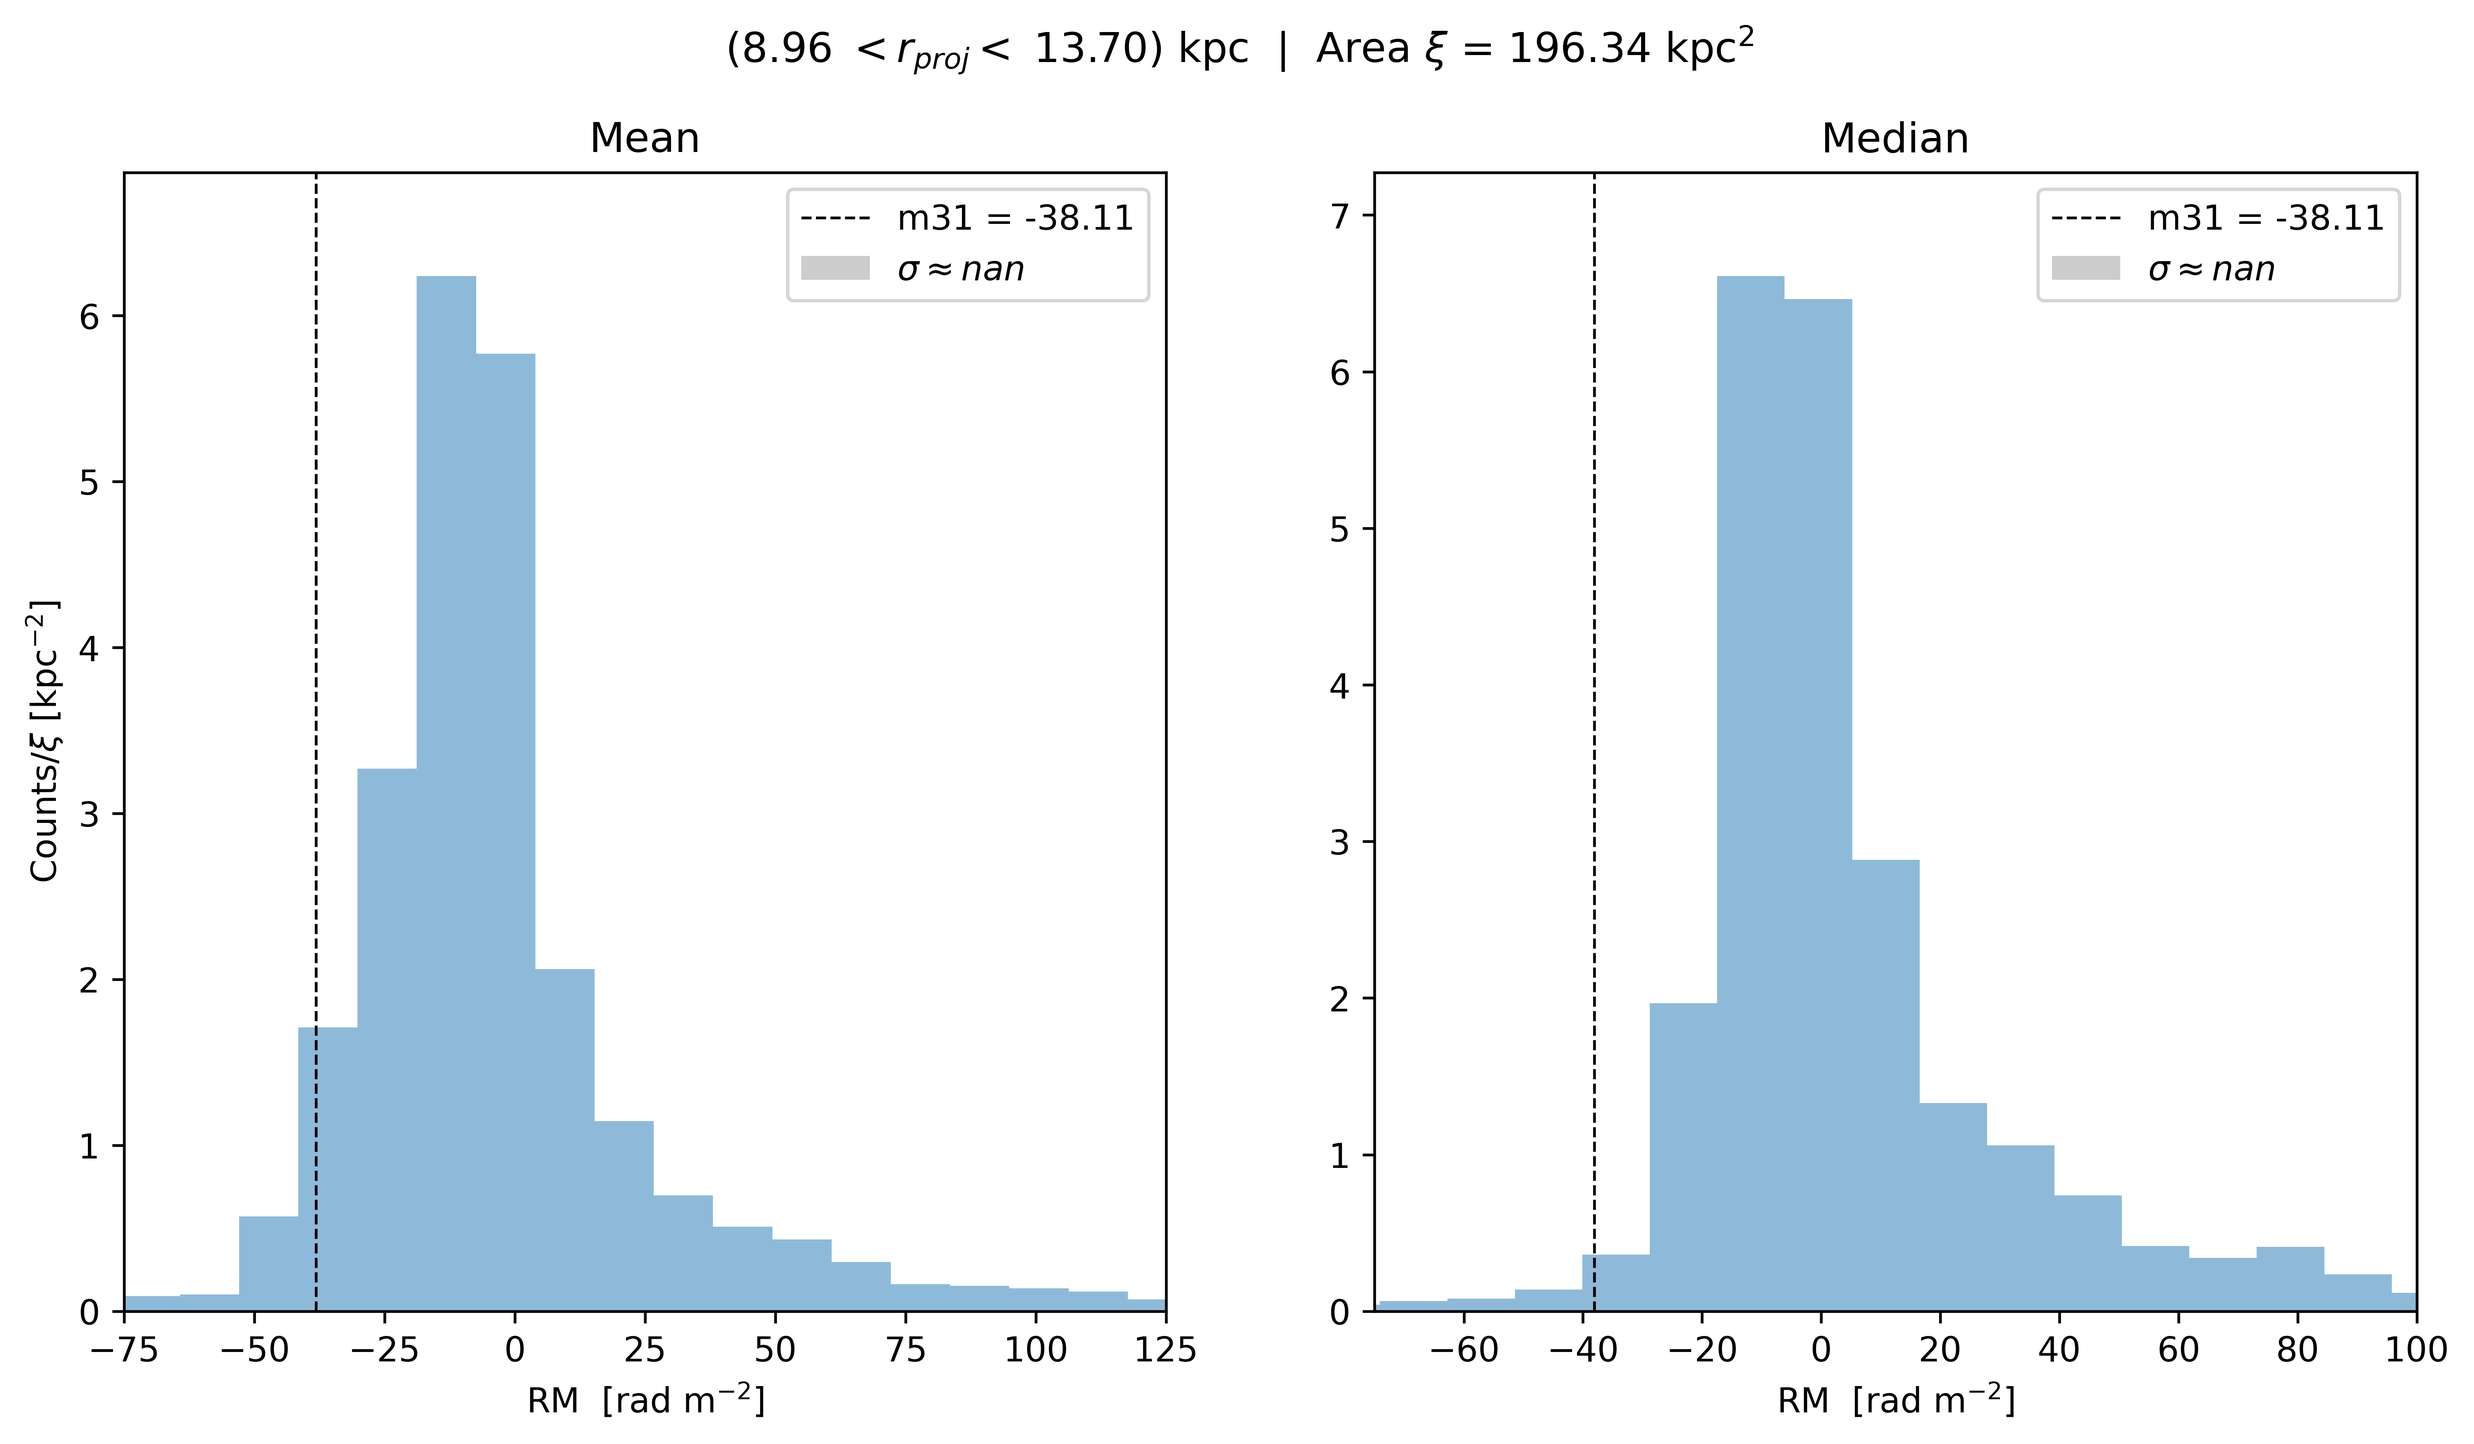
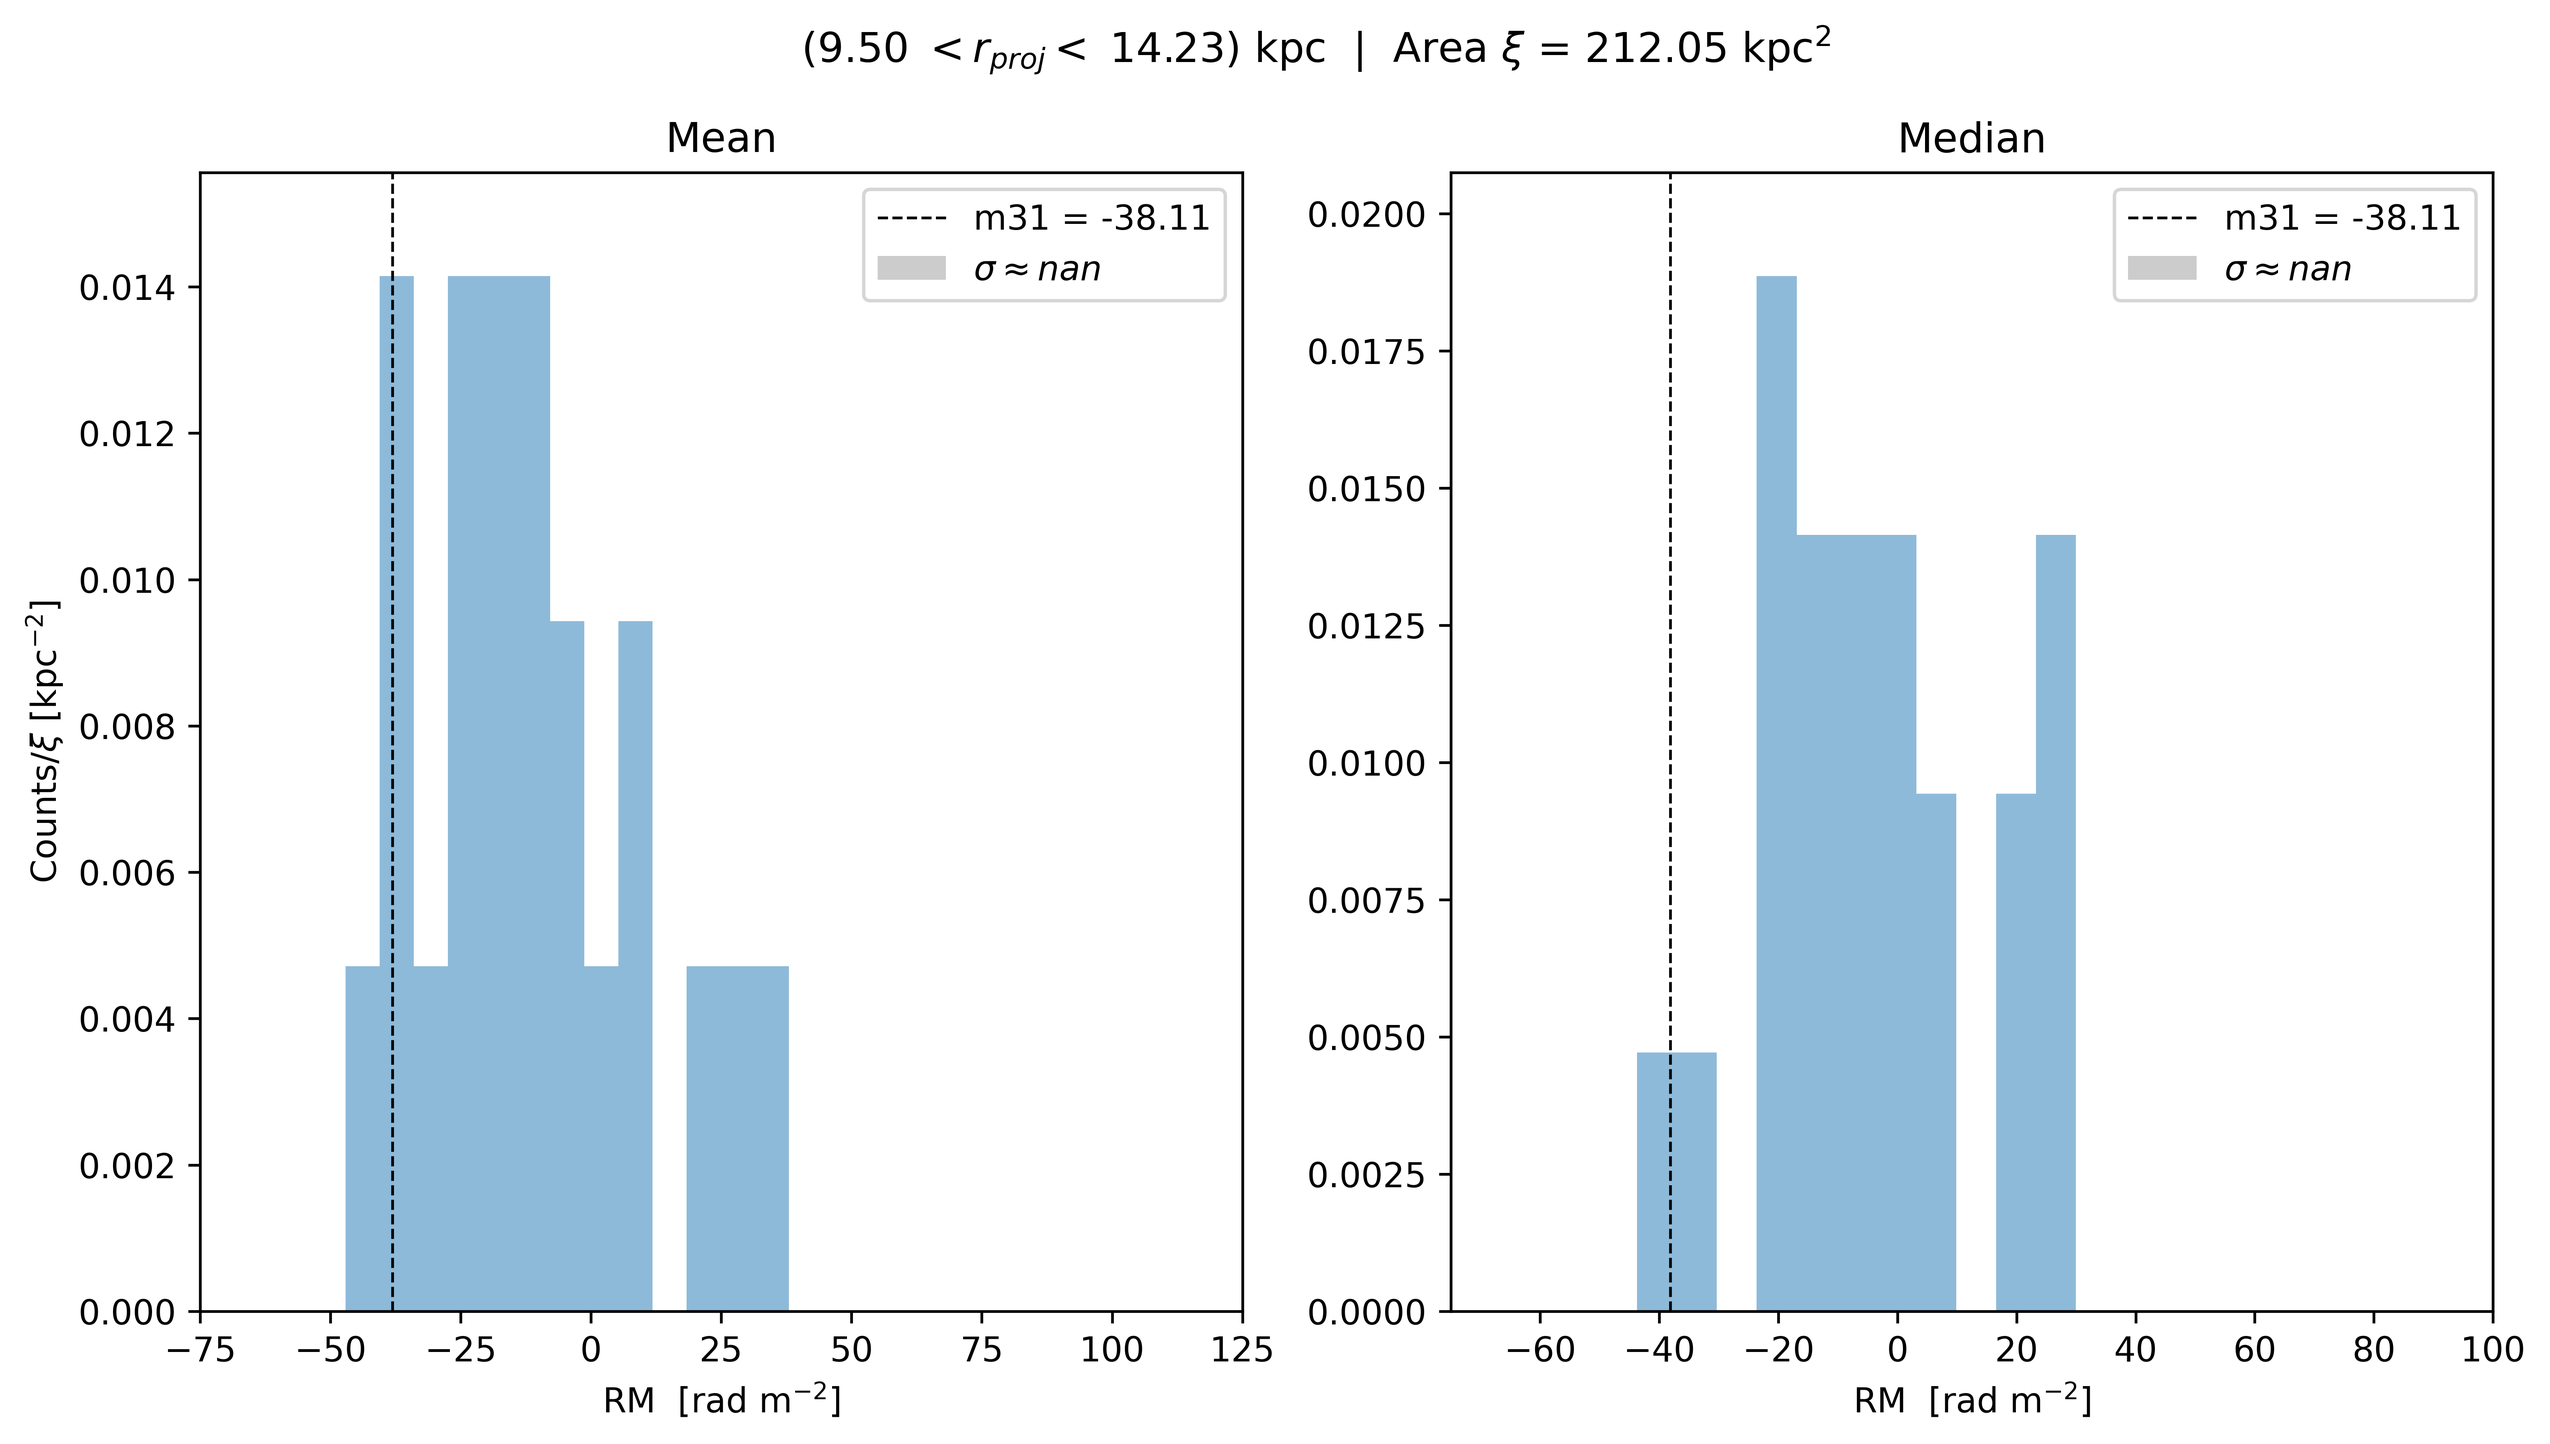
fixing overplot code

diff --git a/M31_signal_vs_entire_sky.py b/M31_signal_vs_entire_sky.py
@@ -20,6 +20,8 @@ if not args.annuli_anal:
         parser.error("--overplot requires --annuli-anal to be set.")
     if args.annuli_video:
         parser.error("--annuli-video requires --annuli-anal to be set.")
+elif args.overplot and args.annuli_video: #Only make a video if not overplotting (or superimposing plots)
+    parser.error("--overplot cannot be done with --annuli-video")
 
 from main import (
 #Importing alias'
@@ -270,7 +272,7 @@ def annuli_analysis(save_plot=False, stack_indiv_patch=False):
         if args.overplot:
             fig, axes = plt.subplots(1, 2, figsize=(12, 6))  #1x2 subplot grid
         
-        #Looping through the annuli
+        #Looping through annuli
         for bin_idx in annuli_to_plot:
 
             if ~args.overplot: #Then plot individually
@@ -335,42 +337,50 @@ def annuli_analysis(save_plot=False, stack_indiv_patch=False):
                 axes[0].legend(); axes[1].legend()
                 fig.suptitle(f" ({bin_edges[bin_idx-1]:.2f}" + r" $< r_{proj} <$ " + f"{bin_edges[bin_idx]:.2f}) {annul_dist_type}" + r"  |  Area $\xi$" + f" = {annul_area:.2f} " + f"{annul_dist_type}" r"$^2$")
                 
-                #Saving or displaying
-                if save_plot:
-                    path = curr_dir_path() + "Results/"
-                    plt.savefig(f"{path}annuli_plot_{bin_idx}.png", dpi=600, bbox_inches="tight")
-                    plt.clf()  # clearing the figure (not deleting it)
-                else:
-                    plt.show()
+                if ~args.overplot: #Then plot individually
+                    #Saving or displaying
+                    if save_plot:
+                        path = curr_dir_path() + "Results/"
+                        plt.savefig(f"{path}annuli_plot_{bin_idx}.png", dpi=600, bbox_inches="tight")
+                        plt.clf()  # clearing the figure (not deleting it)
+                    else:
+                        plt.show()
 
-                # break #Testing out one plot
+                if bin_idx == 3: break #Testing out one (or a few) plots
 
-        if save_plot: 
+        if args.overplot:
+            if save_plot:#Finally Saving the overplots:
+                path = curr_dir_path() + "Results/"
+                plt.savefig(f"{path}annuli_overplot.png", dpi=600, bbox_inches="tight")
+            else:
+                plt.show() #Otherwise show the overplot
+
+        if save_plot: #Since its not easy to make plots interactively on ilifu
             plt.close()  #Deleting the figure to clear memory
             print(f"All images saved to {path}")
     
-            if args.annuli_video: #Saving a video if needbe
-                image_files = sorted(glob.glob(f"{path}annuli_plot_*.png"))
+        if args.annuli_video: #Saving a video if needbe
+            image_files = sorted(glob.glob(f"{path}annuli_plot_*.png"))
 
-                fig, ax = plt.subplots(figsize=(5.3,3.2))
+            fig, ax = plt.subplots(figsize=(5.3,3.2))
 
-                #Removing everything unnecessary from outer figure
-                ax.set_xticks([])  
-                ax.set_yticks([])  
-                ax.set_frame_on(False) #Including boarders.
+            #Removing everything unnecessary from outer figure
+            ax.set_xticks([])  
+            ax.set_yticks([])  
+            ax.set_frame_on(False) #Including boarders.
 
-                img = plt.imshow(plt.imread(image_files[0]))
+            img = plt.imshow(plt.imread(image_files[0]))
 
-                def update(frame):
-                    img.set_array(plt.imread(image_files[frame]))
-                    return [img]
+            def update(frame):
+                img.set_array(plt.imread(image_files[frame]))
+                return [img]
 
-                print(f"Saving of annuli_video.mp4 in {path} ...")
+            print(f"Saving of annuli_video.mp4 in {path} ...")
 
-                ani = animation.FuncAnimation(fig, update, frames=len(image_files), interval=500)
-                ani.save(f"{path}annuli_video.mp4", fps=2, writer="ffmpeg", dpi=400)
-                
-                print(f"Video saved to {path}annuli_video.mp4")
+            ani = animation.FuncAnimation(fig, update, frames=len(image_files), interval=500)
+            ani.save(f"{path}annuli_video.mp4", fps=2, writer="ffmpeg", dpi=400)
+            
+            print(f"Video saved to {path}annuli_video.mp4")
 
     # Stack all patches together without any mean analysis
     if stack_indiv_patch:
@@ -642,7 +652,7 @@ def indiv_bg_corr(arr, bin_cent, absol=True):
 patch_size = 30 #in degrees (same as M31 Virial Radius)
 
 """IMPORTANT"""
-number_of_patches = int(1e4) #Creating laaaarge nubmer of patches (choose smaller vlue if you only want to see output features)
+number_of_patches = int(6e1) #Creating laaaarge nubmer of patches (choose smaller vlue if you only want to see output features)
 
 
 BINS = 50
